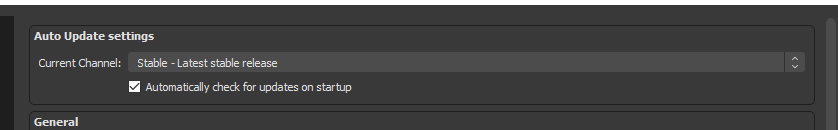
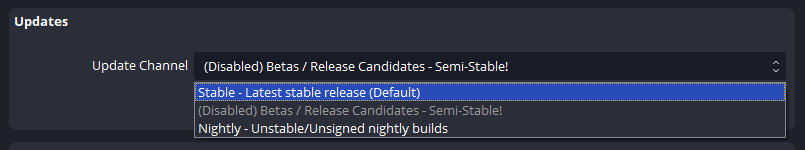
Add some clarifications based on comments

diff --git a/text/0048-updater-branches.md b/text/0048-updater-branches.md
@@ -18,42 +18,55 @@ Example:
 ```json
 [
   {
-    "default": true,
-    "description": "Latest stable release",
-    "display_name": "Stable",
-    "enabled": true,
-    "manifest": "manifest.json",
-    "name": "release"
-  },
-  {
-    "default": false,
-    "description": "Latest Beta or Release Candidate",
-    "display_name": "Beta / Release Candidate",
+    "name": "beta",
+    "display_name": "Beta / Release Candidates",
+    "description": "Semi-stable test builds",
     "enabled": false,
-    "manifest": "manifest_beta.json",
-    "name": "beta"
+    "visible": true,
+    "macos": true,
+    "windows": true
   },
   {
-    "default": false,
-    "description": "Unsigned nightly builds",
+    "name": "nightly",
     "display_name": "Nightly",
+    "description": "Unstable/Unsigned nightly builds",
     "enabled": true,
-    "manifest": "manifest_nightly.json",
-    "name": "nightly"
+    "visible": true,
+    "macos": false,
+    "windows": true
+  },
+  {
+    "name": "test_1234",
+    "display_name": "Test, Issue #1234",
+    "description": "Test Build to Fix issue #1234",
+    "enabled": true,
+    "visible": false,
+    "macos": false,
+    "windows": true
   }
 ]
 ```
 
+The display name of a branch may be any valid UTF-8 character sequence. The `name` property shall only use lowercase ascii characters a-z, 0-9, and "_".
+
+The name of the manifest file for a branch would be constructed as `manifest_{name}.json` and expected to be in the same location as the default manifest.
+The default branch ("stable") must not be specified and is hardcoded to be always present.
+
 The purpose of the `enabled` flag here is to steer clients away from a branch, without deleting it from the list entirely.  
-For example, a user who opted into receiving release candidate builds would still see the option selected in the user interface, but OBS would fall back to the `default` branch if the branch is not currently enabled.
+For example, a user who opted into receiving release candidate builds would receive builds from the default branch while the RC branch is disabled, but would then again receive release candidate builds once the branch has been re-enabled. In the UI this could be represented by a note in the dropdown such as "<Branch Name> *(Disabled, using default branch)*".  
+If a selected branch is deleted entirely, OBS should fall back to the default branch, notifying the user via a simple dialog box.
 
-Additionally, we may consider a `visible` flag to provide hidden branches that can only be selected via config or manual name entry, for example when providing builds with targeted fixes to a smaller number of users.
+Additionally, we may consider using the `visible` flag to provide hidden branches that can only be selected via config or manual name entry, for example when providing builds with targeted fixes to a larger number of users without manually distributing test builds.
 
-For current and new builds to co-exist on the server the file structure may have to be changed slightly.
+For patches and binaries of several branches to co-exist on the server the file structure may have to be changed slightly:
+
+Update files:
 - **Current:** `https://cdn-fastly.obsproject.com/update_studio/<package>/<file path>`
 - **Proposed:** `https://cdn-fastly.obsproject.com/update_studio/<branch>/<package>/<file path>`
 
-The URLs for delta patches may be retained since they already allow for multiple patch files for one target file, differentiated by source hash.
+Delta patch files:
+- **Current:** `https://cdn-fastly.obsproject.com/patches_studio/<package>/<file path>/<source hash>`
+- **Proposed:** `https://cdn-fastly.obsproject.com/patches_studio/<branch>/<package>/<file path>/<source hash>`
 
 ## UI
 
@@ -64,23 +77,33 @@ After applying a change in branch, closing the settings window will trigger a ch
 
 ![Settings Example](./0048-updater-branches/settings.png)
 
-(In this example the "enable auto-updates" checkbox was also moved into the new group)
-
 ### Code
 
-- Before fetching the `manifest.json` the UI would also need to request `branches.json` and then decide which manifest file to fetch.
-- In case the selected branch is disabled, it should fall back to the default "stable" branch
+- (Windows) Before fetching the `manifest.json` the UI would also need to request `branches.json` and then decide which manifest file to fetch
+- (macOS) Branches will need to be fetched and validated before starting Sparkle's update check
+- In case the selected branch is disabled, it should fall back to the default branch
 - The selected branch needs to be added to the command line arguments used for the updater
+- The available branches are kept track of inside `OBSApp` so they can be accessed via `App()->GetUpdateBranches()`
 
-## Updater
+## Updater (Windows)
 
-The selected branch would be passed as the first argument to the updater and used when constructing the download URL. No further changes should be required.
+The selected branch would be passed as an argument to the updater and used when constructing the download URL. Additionally the branch will be included as a URL parameter when requesting a list of delta patches from the server.
+
+## Sparkle (macOS)
+
+In Sparkle 2 we can add a channel to each appcast item via `<sparkle:channel>beta</sparkle:channel>` and then set the currently opted-in channel via `allowedChannelsForUpdater`.
+
+To prevent issues with older Sparkle versions we may have to use a separate RSS feed from the current ones. In doing so we could merge feeds for Apple Silicon and Intel builds and use channels to differentiate them, e.g. use `<branch>_(arm64|amd64)` as the channel name.
 
 # Drawbacks
 
 - Due to how the current updating process works this process still requires manually signed and uploaded builds. So nightlies straight from CI are not an option without further changes.
 - Users may opt into updates without fully understanding the impact, and run into issues when presented with a Beta/RC build.
+- (Windows) Rolling back to an older release may leave the OBS directory in an "unclean" state with future plugins/libraries not removed
+  + This could be partially mitigated by https://github.com/obsproject/obs-studio/pull/6916
 
 # Additional Information
 
-While this RFC only covers Windows, similar changes should be possible for macOS by changing the URL of the Sparkle feed that is consumed by the updater.
+- Sparkle documentation: https://sparkle-project.org/documentation/api-reference/Protocols/SPUUpdaterDelegate.html
+- Pull Request (Windows): https://github.com/obsproject/obs-studio/pull/6907
+- Pull Request (macOS): https://github.com/obsproject/obs-studio/pull/7723
